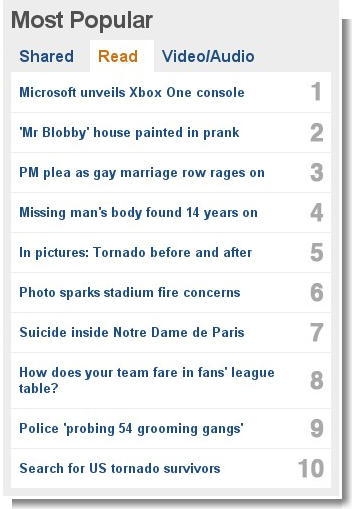
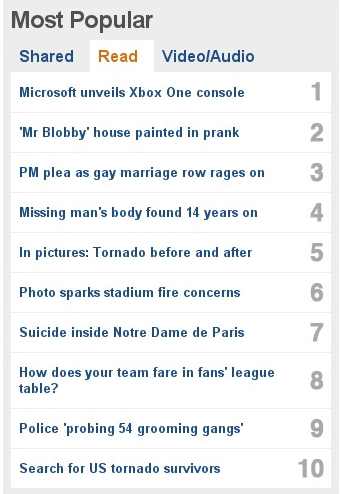
No more missing figures.

diff --git a/bbc_search.tex b/bbc_search.tex
@@ -1658,8 +1658,9 @@
 
 \begin{frame}
   \frametitle{Popular searches}
-  \centering
-  \includegraphics[width=\linewidth]{most_popular.png}
+  \begin{centering}
+    \includegraphics[width=2in]{most_popular.png}
+  \end{centering}
 \end{frame}
 \note{
   So, if we're tracking statistis about what people are searching, then
@@ -1682,10 +1683,14 @@
   appear to be popular exactly when the trend begins to happen.
 }
 
-\begin{frame}
+\begin{frame}[fragile]
   \frametitle{Responding to major events}
-  %TODO
-  \missingfigure{}
+  \centering
+  \includegraphics[width=4in]{tornado.jpg}
+  \begin{flushright}
+    \tiny
+    \copyright CC-BY-SA 2013 http://en.wikipedia.org/wiki/File:May\_20,\_2013\_Moore,\_Oklahoma\_tornado.JPG
+  \end{flushright}
 \end{frame}
 \note{
   I mentioned this briefly when talking about analytics, but it highlighted
@@ -1703,8 +1708,8 @@
 \begin{frame}
   \frametitle{Awareness of time of day...}
   \framesubtitle{... or day of the week}
-  %TODO
-  \missingfigure{}
+  \centering
+  \includegraphics[width=\linewidth]{clock.jpg}
 \end{frame}
 \note{
   Is a query for football different on a Saturday afternoon to a Monday
@@ -1715,8 +1720,8 @@
 
 \begin{frame}
   \frametitle{Location Awareness}
-  %TODO
-  \missingfigure{}
+  \centering
+  \includegraphics[width=\linewidth]{earth.jpg}
 \end{frame}
 \note{
   If I just search for ``weather'' it's a bit ambiguous as to what region's
@@ -1733,9 +1738,8 @@
 
 \begin{frame}
   \frametitle{Social Media}
-  Trends on Twitter, shares on Facebook
-  %TODO
-  \missingfigure{}
+  \centering
+  \includegraphics[width=\linewidth]{facebook_twitter.jpg}
 \end{frame}
 \note{
   These days people like to share links to things they find interesting
